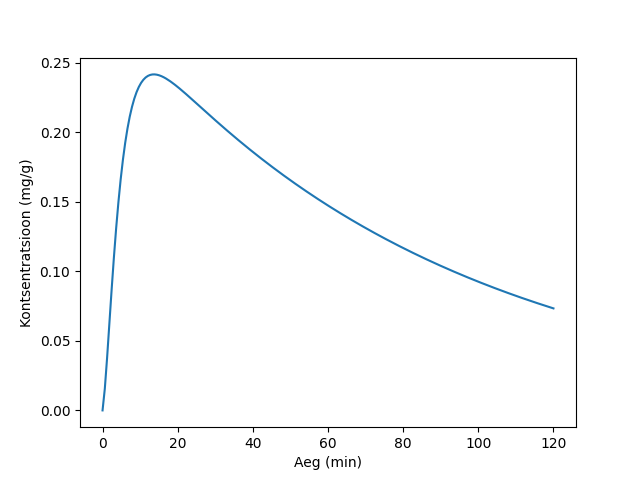
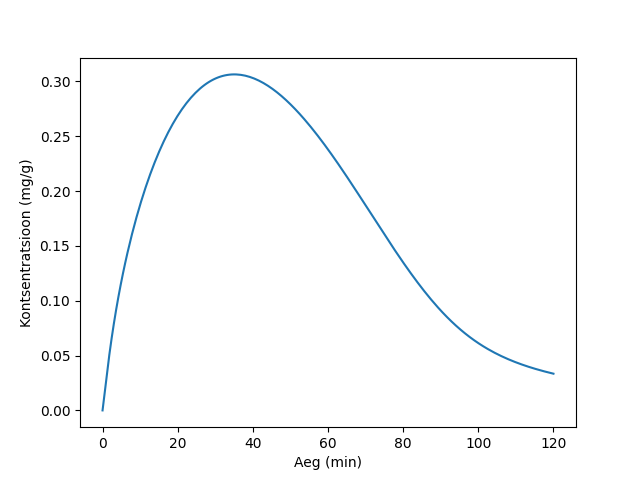
update enzyme kinetics

diff --git a/pages/bioreaktorid.html b/pages/bioreaktorid.html
@@ -66,10 +66,10 @@
         Tahaksime ka arvutada reaktsiooni kiirust. Kasutatakse erinevaid valemeid ensüümi reaktsioonide kiiruse arvutamiseks, aga üks levinumaid on Michaelis-Menteni võrrand.
       </p>
       <div>
-        \[ -r_{S} = \frac{V_{max} C_{S}}{K_m + C_{S}} \]
+        \[ -r_{S} = \frac{k_{cat} C_E C_S}{K_m + C_S} \]
       </div>
       <p>
-        Selles valemis <em>S</em> tähendab lähteaine (ingl <em>substrate</em>). <em>V<sub>max</sub></em> näitab maksimaalset reaktsiooni kiirust, mida on võimalik saavutada. Mõnikord seda tahistatakse kui <em>k<sub>cat</sub></em>. <em>K<sub>m</sub></em> on Michaelis-Menteni konstant. <em>K<sub>m</sub></em> peaks ka ligikaudselt näitama, kui tugevasti ensüüm on seotud lähteainega. Iga reaktsioonil ja ensüümil on omad konstandi väärtused.
+        Selles valemis <em>S</em> tähendab lähteaine (ingl <em>substrate</em>) ja <em>C<sub>E</sub></em> on ensüümi kontsentratsioon. <em>k<sub>cat</sub></em> näitab kui mitu lähteaine molekuli üks ensüümi molekul (ühe toimekohaga) suudab muundata teatud aja jooksul siis, kui toimekohas on alati lähteaine molekul (ehk lähteaine kontsentratsiooni ei piira reaktsiooni). Mõnikord kasutatakse hoopis <em>V<sub>max</sub></em>, mis näitab maksimaalset reaktsiooni kiirust, mida on võimalik saavutada konkreetse ensüümi kontsentratsiooni juures. Ehk, \( V_{max} = k_{cat} C_E \). <em>K<sub>m</sub></em> on Michaelis-Menteni konstant. <em>K<sub>m</sub></em> peaks ligikaudselt näitama, kui tugevasti ensüüm on seotud lähteainega. Iga reaktsioonil ja ensüümil on omad konstandi väärtused.
       </p>
       <p>
         Vaatame natuke lähemalt Michaelis-Menteni võrrandi käitumist. Kui lähteaine kontsentratsioon on madal, siis nimetaja sisuliselt võrdub <em>K<sub>m</sub></em>-iga. Ehk, kiirus sõltub sisuliselt lineaarselt kontsentratsioonist ja reaktsioon käitub nagu esimest järku reaktsioon. Seda võib näha ka allolevast joonisest. Kui aga lähteaine kontsentratsioon on kõrge, nimetaja on ligikaudselt võrdne <em>C<sub>S</sub></em>-iga ja reaktsiooni kiirus eriti ei sõltu kontsentratsioonist. Ehk, näib, et reaktsiooni järk on null. See käitumine on loogiline kuna kõrge lähteaine kontsentratsiooni puhul peaaegu kõik ensüümi toimekohad on hõivatud ja lähteainet lisamine ei saa väga mõjutada reaktsiooni kiirust.
@@ -108,7 +108,7 @@
         Viivitusfaasi pikkus sõltub sellest, kui sarnane keskkond on organismide varasemale keskkonnale. Kui näiteks bakterid olid hoitud sarnastel tingimustel, siis bioreaktoris nad võibolla ei pea väga kohanema ja viivitusfaas ei pruugi juhtuda.
       </p>
       <p>
-        Produkt võib tekkida eksponentsiaalses kasvufaasis või statsionaarses faasis. Mõnikord organismid hakkavad soovitud ainet tootma alles siis, kui tekivad pinged. Näiteks, bioõli tootmisel mõned vetikad hakkavad tootma lipiide suuremates kogustes alles siis, kui tekib mingi pinge, mis neid häirib.<sup><a href="#ref8">8</a></sup> Kui on teada, mis kasvufaasis produkt kõige rohkem tekib, siis saab paremini disainida bioreaktorit selleks, et suurendada saagist.
+        Produkt võib tekkida eksponentsiaalses kasvufaasis või statsionaarses faasis. Mõnikord organismid hakkavad soovitud ainet tootma alles siis, kui tekivad pinged. Näiteks, bioõli tootmisel mõned vetikad hakkavad tootma lipiide suuremates kogustes alles siis, kui tekib mingi pinge, mis neid häirib.<sup><a href="#ref9">9</a></sup> Kui on teada, mis kasvufaasis produkt kõige rohkem tekib, siis saab paremini disainida bioreaktorit selleks, et suurendada saagist.
       </p>
       <p>
         Rakkude kasvu saab kirjeldada ka kiiruse valemiga. Kasutatakse palju erinevaid valemeid, aga kõige rohkem kasutatakse Monodi võrrandit:
@@ -157,7 +157,7 @@
         Ensüümid kiirendavad neid reaktsioone. Esimeses reaktsioonis alkoholdehüdrogenaas muudab etanooli atsetaldehüüdiks ja teises reaktsioonis aldehüüddehüdrogenaase abil atsetaldehüüd muutub atsetaadiks.
       </p>
       <p>
-        Tee mudelit sellest, kuidas etanooli kontsentratsioon muutub peale seda, kui juuakse alkohoolset jooki. Kui juuakse 400 ml veini (etanooli sisaldus 12 vol%), kas etanooli kontsentratsioon veres ületaks Eesti alkoholi piirmäära (0,2 promilli, ehk 0,2 mg/g)? Kui ületab, kui kaua läheks enne, kui etanooli kontsentratsioon veres on jälle madalam, kui piirmäär?
+        Tee mudelit sellest, kuidas etanooli kontsentratsioon muutub peale seda, kui juuakse alkohoolset jooki. Kui juuakse 120 ml veini (etanooli sisaldus 12 vol%), kas etanooli kontsentratsioon veres ületaks Eesti alkoholi piirmäära (0,2 promilli, ehk 0,2 mg/g)? Kui ületab, kui kaua läheks enne, kui etanooli kontsentratsioon veres on jälle madalam, kui piirmäär?
       </p>
       <p>
         Mudeli lihtsustamiseks võib eeldata, et juuakse alkoholi kogust kõik korraga algushetkel. Võib ka teha keerulisemat mudelit, milles alkoholi juuakse mitu korda teatud aja jooksul.
@@ -232,7 +232,7 @@ mahtosa_etanool = 0.12
 etanooli_tihedus = 0.78954976 # g/ml
 m_etanool_sisse = V_jook * mahtosa_etanool * etanooli_tihedus</code></pre>
           <p>
-            Seejärel, paneme kirja parameetreid, mis on mudelis vajalikud. Enamus parameetreid on võimalik leida kirjandusest.<sup><a href="#ref2">2-7</a></sup>
+            Seejärel, paneme kirja parameetreid, mis on mudelis vajalikud. Enamus parameetreid on võimalik leida kirjandusest.<sup><a href="#ref2">2-8</a></sup>
           </p>
           <pre>
 <code class="python">m = GEKKO()
@@ -240,7 +240,8 @@ maksu_mass = 1.5 # kg
 mm = 46.07 # etanooli molaar mass (g/mol)
 vere_tihedus = 1.0506 # g/ml
 maksu_tihedus = 1.051 # g/ml
-Vmax = m.Param(value=10) # min^-1
+kcat = m.Param(value=10) # min^-1
+C_ensüüm = m.Param(value=2e-4) # mol/l
 Km = m.Param(value=1.2/1000) # M
 V_maks = m.Param(value=maksu_mass / maksu_tihedus) # l
 V_veri = m.Param(value=5) # l
@@ -270,7 +271,7 @@ Cet_maks = m.Var(0) # mol/l, etanooli kontsentratsioon maksas</code></pre>
             Ja mudelit paneme kirja võrrandisüsteemina. Meil on neli moolbilansi, üks iga elundi jaoks. Kasutame ka Gekko <a href="https://gekko.readthedocs.io/en/latest/quick_start.html#intermediates"><code class="python">Intermediate</code></a> objekti selleks, et eraldi defineerida reaktsiooni kiirust ja moolkulu maost ja soolestikus verre. Seda tehes moolbilansid on natuke lihtsamad ja on võibolla kergem lugeda.
           </p>
           <pre>
-<code class="python">r = m.Intermediate(-Vmax * Cet_maks / (Km + Cet_maks))
+<code class="python">r = m.Intermediate(-kcat * C_ensüüm * Cet_maks / (Km + Cet_maks))
 ndot_maost = m.Intermediate(h_magu * (Cet_magu - Cet_veri)) # mol/min
 ndot_sool = m.Intermediate(h_sool * (Cet_sool - Cet_veri)) # mol/min
 m.Equation(Cet_magu.dt() == (-ndot_maost - vdot_magu_sool * Cet_magu) / V_magu) # tegelikult mao maht pidevalt muutub, aga siin lihtsustame ja oletame, et maht ei muutu.
@@ -320,6 +321,9 @@ plt.show()</code></pre>
           J. Feldschuh and Y. Enson, “Prediction of the normal blood volume. Relation of blood volume to body habitus.,” Circulation, vol. 56, no. 4, pp. 605–612, Oct. 1977, doi: 10.1161/01.CIR.56.4.605.
         </li>
         <li id="ref8">
+          T. K. Li, W. F. Bosron, W. P. Dafeldecker, L. G. Lange, and B. L. Vallee, “Isolation of pi-alcohol dehydrogenase of human liver: is it a determinant of alcoholism?,” Proc Natl Acad Sci U S A, vol. 74, no. 10, pp. 4378–4381, Oct. 1977, doi: 10.1073/pnas.74.10.4378.
+        </li>
+        <li id="ref9">
           N. Pushpakumari Kudahettige, J. Pickova, and F. G. Gentili, “Stressing Algae for Biofuel Production: Biomass and Biochemical Composition of Scenedesmus dimorphus and Selenastrum minutum Grown in Municipal Untreated Wastewater,” Frontiers in Energy Research, vol. 6, p. 132, 2018, doi: 10.3389/fenrg.2018.00132.
         </li>
       </ol>

diff --git a/pages/kiirus.html b/pages/kiirus.html
@@ -202,7 +202,7 @@
       </p>
       <div>
         \[ r_A = r_{A,rxn1} + r_{A,rxn2} + r_{A,rxn3} + ... \]
-      </div>
+      </div>      
 
       <h2>Viited</h2>
       <ol>

diff --git a/examples/maks.py b/examples/maks.py
@@ -6,7 +6,7 @@ Etanooli muundatakse maksas järgnevate reaktsioonide kaudu:
     CH3CHO + NAD+ -> CH3COOH + NADH + H+
 Ensüümid kiirendavad neid reaktsioone. Esimeses reaktsioonis alkoholdehüdrogenaas muudab etanooli atsetaldehüüdiks ja teises reaktsioonis aldehüüddehüdrogenaase abil atsetaldehüüd muutub atsetaadiks.
 
-Tee mudelit sellest, kuidas etanooli kontsentratsioon muutub peale seda, kui juuakse alkohoolset jooki. Kui juuakse 400 ml veini (etanooli sisaldus 12 vol%), kas etanooli kontsentratsioon veres ületaks Eesti alkoholi piirmäära (0,2 promilli, ehk 0,2 mg/g)? Kui ületab, kui kaua läheks enne, kui etanooli kontsentratsioon veres on jälle madalam, kui piirmäär?
+Tee mudelit sellest, kuidas etanooli kontsentratsioon muutub peale seda, kui juuakse alkohoolset jooki. Kui juuakse 120 ml veini (etanooli sisaldus 12 vol%), kas etanooli kontsentratsioon veres ületaks Eesti alkoholi piirmäära (0,2 promilli, ehk 0,2 mg/g)? Kui ületab, kui kaua läheks enne, kui etanooli kontsentratsioon veres on jälle madalam, kui piirmäär?
 '''
 import pandas as pd
 import numpy as np
@@ -16,7 +16,7 @@ from gekko import GEKKO
 m = GEKKO()
 
 # lähteandmed
-V_jook = 400 # ml, joogi maht
+V_jook = 120 # ml, joogi maht
 mahtosa_etanool = 0.12
 etanooli_tihedus = 0.78954976 # g/ml
 m_etanool_sisse = V_jook * mahtosa_etanool * etanooli_tihedus
@@ -25,7 +25,8 @@ maksu_mass = 1.5 # kg, Allikad: C. Eipel, K. Abshagen, and B. Vollmar, “Regula
 mm = 46.07 # etanooli molaar mass (g/mol)
 vere_tihedus = 1.0506 # g/ml, Allikas: R. J. Trudnowski and R. C. Rico, “Specific Gravity of Blood and Plasma at 4 and 37 °C,” Clinical Chemistry, vol. 20, no. 5, pp. 615–616, May 1974, doi: 10.1093/clinchem/20.5.615.
 maksu_tihedus = 1.051 # g/ml, Allikas: B. A. Overmoyer, C. E. McLaren, and G. M. Brittenham, “Uniformity of liver density and nonheme (storage) iron distribution,” Arch Pathol Lab Med, vol. 111, no. 6, pp. 549–554, Jun. 1987.
-Vmax = m.Param(value=10) # min^-1, Allikas: F. W. Wagner, A. R. Burger, and B. L. Vallee, “Kinetic properties of human liver alcohol dehydrogenase: oxidation of alcohols by class I isoenzymes,” Biochemistry, vol. 22, no. 8, pp. 1857–1863, Apr. 1983, doi: 10.1021/bi00277a018.
+kcat = m.Param(value=10) # min^-1, Allikas: F. W. Wagner, A. R. Burger, and B. L. Vallee, “Kinetic properties of human liver alcohol dehydrogenase: oxidation of alcohols by class I isoenzymes,” Biochemistry, vol. 22, no. 8, pp. 1857–1863, Apr. 1983, doi: 10.1021/bi00277a018.
+C_ensüüm = m.Param(value=2e-4) # mol/l, põhineb andmetele artiklist T. K. Li, W. F. Bosron, W. P. Dafeldecker, L. G. Lange, and B. L. Vallee, “Isolation of pi-alcohol dehydrogenase of human liver: is it a determinant of alcoholism?,” Proc Natl Acad Sci U S A, vol. 74, no. 10, pp. 4378–4381, Oct. 1977, doi: 10.1073/pnas.74.10.4378.
 Km = m.Param(value=1.2/1000) # M, Allikas: F. W. Wagner, A. R. Burger, and B. L. Vallee, “Kinetic properties of human liver alcohol dehydrogenase: oxidation of alcohols by class I isoenzymes,” Biochemistry, vol. 22, no. 8, pp. 1857–1863, Apr. 1983, doi: 10.1021/bi00277a018.
 V_maks = m.Param(value=maksu_mass / maksu_tihedus) # l
 V_veri = m.Param(value=5) # l, Allikas: J. Feldschuh and Y. Enson, “Prediction of the normal blood volume. Relation of blood volume to body habitus.,” Circulation, vol. 56, no. 4, pp. 605–612, Oct. 1977, doi: 10.1161/01.CIR.56.4.605.
@@ -33,8 +34,8 @@ V_magu = m.Param(value=0.5 + V_jook/1000) # l, mao maht
 V_sool = m.Param(value=0.06) # l, soolestiku maht
 vdot_magu_sool = m.Param(value=0.01) # l/min, mahtkulu maost soolestikku
 vdot_maks_veri = m.Param(value=maksu_mass) # l/min, vere mahtkulu maksasse on umbes 1 l / kg maksa. Allikas: C. Eipel, K. Abshagen, and B. Vollmar, “Regulation of hepatic blood flow: The hepatic arterial buffer response revisited,” World Journal of Gastroenterology : WJG, vol. 16, no. 48, p. 6046, Dec. 2010, doi: 10.3748/wjg.v16.i48.6046.
-h_magu = m.Param(value=0.0005) # min^-1
-h_sool = m.Param(value=0.05) # min^-1
+h_magu = m.Param(value=0.001) # min^-1
+h_sool = m.Param(value=0.5) # min^-1
 
 Cet_magu_alg = m_etanool_sisse / mm / V_magu.value # arvutada etanooli algkontsentratsioon kõhus
 
@@ -49,7 +50,7 @@ Cet_veri = m.Var(0) # mol/l, etanooli kontsentratsioon veres
 Cet_maks = m.Var(0) # mol/l, etanooli kontsentratsioon maksas
 
 # mudeli võrrandid
-r = m.Intermediate(-Vmax * Cet_maks / (Km + Cet_maks))
+r = m.Intermediate(-kcat * C_ensüüm * Cet_maks / (Km + Cet_maks))
 ndot_maost = m.Intermediate(h_magu * (Cet_magu - Cet_veri)) # mol/min
 ndot_sool = m.Intermediate(h_sool * (Cet_sool - Cet_veri)) # mol/min
 m.Equation(Cet_magu.dt() == (-ndot_maost - vdot_magu_sool * Cet_magu) / V_magu) # tegelikult mao maht pidevalt muutub, aga siin lihtsustame ja oletame, et maht ei muutu.
